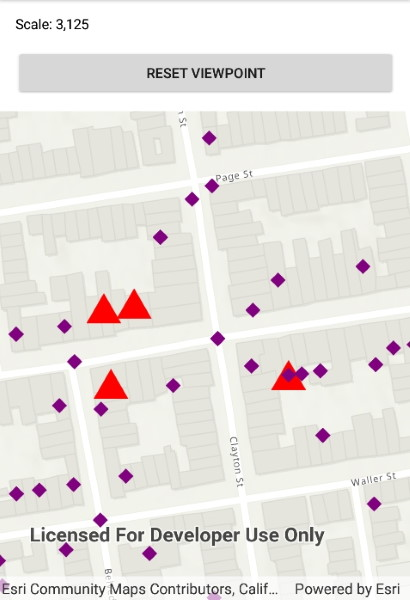
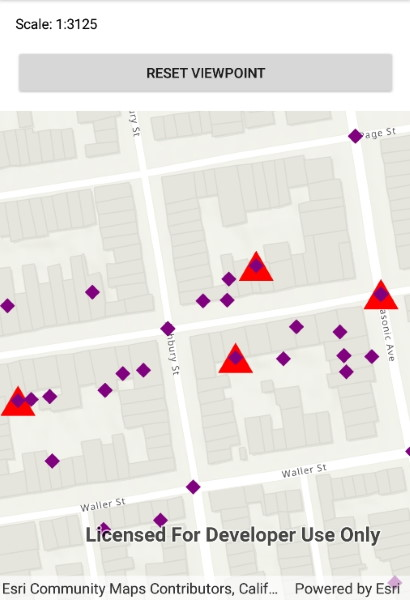
Feedback from review

diff --git a/src/Forms/Shared/Samples/Symbology/UniqueValuesAlternateSymbols/UniqueValuesAlternateSymbols.xaml b/src/Forms/Shared/Samples/Symbology/UniqueValuesAlternateSymbols/UniqueValuesAlternateSymbols.xaml
@@ -2,20 +2,14 @@
              xmlns="http://xamarin.com/schemas/2014/forms"
              xmlns:x="http://schemas.microsoft.com/winfx/2009/xaml"
              xmlns:esriUI="clr-namespace:Esri.ArcGISRuntime.Xamarin.Forms;assembly=Esri.ArcGISRuntime.Xamarin.Forms"
-             xmlns:local="clr-namespace:ArcGISRuntimeXamarin.Samples.UniqueValuesAlternateSymbols"
              xmlns:resources="clr-namespace:Forms.Resources">
-    <ContentPage.Resources>
-        <ResourceDictionary>
-            <local:ScaleToTextConverter x:Key="ScaleToText" />
-        </ResourceDictionary>
-    </ContentPage.Resources>
     <RelativeLayout>
         <esriUI:MapView x:Name="MyMapView"
                         BindingContext="{x:Reference Name=ResponsiveFormContainer}"
                         Style="{StaticResource MapWithFormStyle}" />
         <resources:ResponsiveFormContainer x:Name="ResponsiveFormContainer">
             <StackLayout>
-                <Label Margin="5" Text="{Binding Source={x:Reference MyMapView}, Path=MapScale, Converter={StaticResource ScaleToText}}" />
+                <Label Margin="5" Text="{Binding Source={x:Reference MyMapView}, Path=MapScale, StringFormat='Scale: 1:{0:0}'}" />
                 <Button Margin="5"
                         Padding="5"
                         Clicked="ResetViewpointClick"

diff --git a/src/WPF/ArcGISRuntime.WPF.Viewer/Samples/Symbology/UniqueValuesAlternateSymbols/UniqueValuesAlternateSymbols.xaml b/src/WPF/ArcGISRuntime.WPF.Viewer/Samples/Symbology/UniqueValuesAlternateSymbols/UniqueValuesAlternateSymbols.xaml
@@ -10,7 +10,7 @@
             <StackPanel>
                 <Label Margin="5"
                        Content="{Binding ElementName=MyMapView, Path=MapScale}"
-                       ContentStringFormat="Scale: {0:N0}" />
+                       ContentStringFormat="Scale: 1:{0:0}" />
                 <Button Margin="5"
                         Padding="5"
                         Click="ResetViewpointClick"

diff --git a/src/Forms/Shared/Samples/Symbology/UniqueValuesAlternateSymbols/UniqueValuesAlternateSymbols.xaml.cs b/src/Forms/Shared/Samples/Symbology/UniqueValuesAlternateSymbols/UniqueValuesAlternateSymbols.xaml.cs
@@ -13,7 +13,6 @@ using Esri.ArcGISRuntime.Mapping;
 using Esri.ArcGISRuntime.Symbology;
 using System;
 using System.Collections.Generic;
-using System.Globalization;
 using Xamarin.Forms;
 
 namespace ArcGISRuntimeXamarin.Samples.UniqueValuesAlternateSymbols
@@ -74,19 +73,7 @@ namespace ArcGISRuntimeXamarin.Samples.UniqueValuesAlternateSymbols
 
         private void ResetViewpointClick(object sender, EventArgs e)
         {
-            MyMapView.SetViewpoint(_initialViewpoint);
-        }
-    }
-    public class ScaleToTextConverter : IValueConverter
-    {
-        public object Convert(object value, Type targetType, object parameter, CultureInfo culture)
-        {
-            return $"Scale: {value:N0}";
-        }
-
-        public object ConvertBack(object value, Type targetType, object parameter, CultureInfo culture)
-        {
-            throw new NotImplementedException();
+            MyMapView.SetViewpointAsync(_initialViewpoint, TimeSpan.FromSeconds(5));
         }
     }
 }

diff --git a/src/WinUI/ArcGISRuntime.WinUI.Viewer/Samples/Symbology/UniqueValuesAlternateSymbols/UniqueValuesAlternateSymbols.xaml.cs b/src/WinUI/ArcGISRuntime.WinUI.Viewer/Samples/Symbology/UniqueValuesAlternateSymbols/UniqueValuesAlternateSymbols.xaml.cs
@@ -74,7 +74,7 @@ namespace ArcGISRuntime.WinUI.Samples.UniqueValuesAlternateSymbols
 
         private void ResetViewpointClick(object sender, RoutedEventArgs e)
         {
-            MyMapView.SetViewpoint(_initialViewpoint);
+            MyMapView.SetViewpointAsync(_initialViewpoint, TimeSpan.FromSeconds(5));
         }
     }
 
@@ -82,7 +82,7 @@ namespace ArcGISRuntime.WinUI.Samples.UniqueValuesAlternateSymbols
     {
         public object Convert(object value, Type targetType, object parameter, string language)
         {
-            return $"Scale: {value:N0}";
+            return $"Scale: 1:{System.Convert.ToInt32(value)}";
         }
 
         public object ConvertBack(object value, Type targetType, object parameter, string language)

diff --git a/src/WPF/ArcGISRuntime.WPF.Viewer/Samples/Symbology/UniqueValuesAlternateSymbols/UniqueValuesAlternateSymbols.xaml.cs b/src/WPF/ArcGISRuntime.WPF.Viewer/Samples/Symbology/UniqueValuesAlternateSymbols/UniqueValuesAlternateSymbols.xaml.cs
@@ -72,7 +72,7 @@ namespace ArcGISRuntime.WPF.Samples.UniqueValuesAlternateSymbols
 
         private void ResetViewpointClick(object sender, System.Windows.RoutedEventArgs e)
         {
-            MyMapView.SetViewpoint(_initialViewpoint);
+            MyMapView.SetViewpointAsync(_initialViewpoint, TimeSpan.FromSeconds(5));
         }
     }
 }
